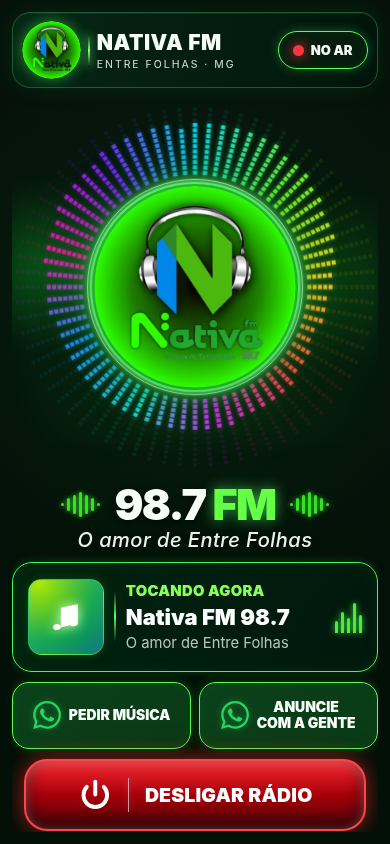
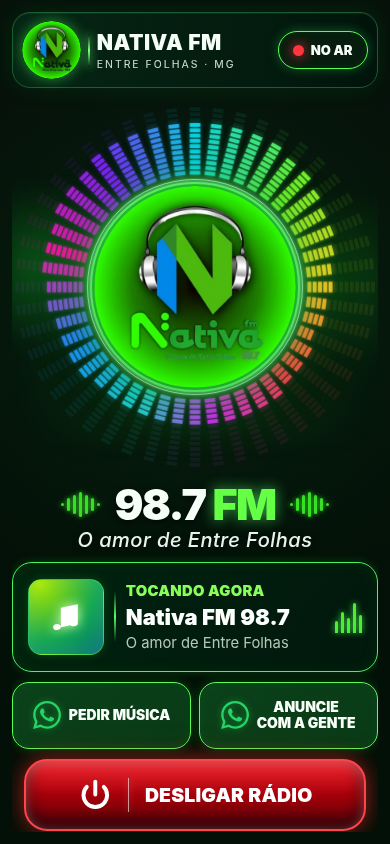
Add files via upload

Changed region(s): [[0.0923, 0.1232, 0.8615, 0.5237]]

diff --git a/app.js b/app.js
@@ -1,5 +1,5 @@
 'use strict';
-/* Nativa FM 1.7.0 — equalizador circular de frequência real com visual neon. */
+/* Nativa FM 1.7.1 — equalizador circular com barras largas, fiel à referência visual. */
 (() => {
   const cfg = window.NATIVA_CONFIG;
   if (!cfg) return;
@@ -49,7 +49,7 @@
     analyser: null,
     frequencyData: null,
     raf: 0,
-    levels: new Float32Array(72),
+    levels: new Float32Array(48),
     lastMeterFrame: 0,
     frequencyRanges: [],
     metadata: null,
@@ -58,7 +58,7 @@
     progressEvents: 0
   };
 
-  const BANDS = 72;
+  const BANDS = 48;
   const ATTACK_MS = 16;
   const RELEASE_MS = 110;
   const radialCtx = ui.equalizer.getContext('2d', {alpha: true});
@@ -108,7 +108,9 @@
     const radius = canvasSize * .307;
     const segmentLength = canvasSize * .0105;
     const segmentGap = canvasSize * .004;
-    const barWidth = Math.max(1.6, canvasSize * .0116);
+    // Proporções da referência aprovada: menos colunas e segmentos mais largos.
+    // Mantém espaçamento uniforme entre as barras, independentemente do tamanho da tela.
+    const barWidth = Math.max(1.6, canvasSize * .029);
     const segmentsPerBar = 13;
     radialCtx.clearRect(0, 0, canvasSize, canvasSize);
     for (let i = 0; i < BANDS; i++) {

diff --git a/server.js b/server.js
@@ -92,7 +92,7 @@ const server = http.createServer((req, res) => {
   let pathname;
   try { pathname = new URL(req.url, 'http://localhost').pathname; }
   catch (_) {return json(res, 400, {error:'URL inválida.'});}
-  if (pathname === '/api/health') return json(res, 200, {service:'nativa-fm-proxy', ready:true, version:'1.7.0'});
+  if (pathname === '/api/health') return json(res, 200, {service:'nativa-fm-proxy', ready:true, version:'1.7.1'});
   if (pathname === '/api/stream' && method === 'GET') return void proxyStream(res, STREAM, false);
   if (pathname === '/api/metadata' && method === 'GET') return void proxyStream(res, META, true);
   if (pathname.startsWith('/api/')) return json(res, 404, {error:'Rota não encontrada.'});

diff --git a/sw.js b/sw.js
@@ -1,5 +1,5 @@
-/* Nativa FM 1.7.0: cache apenas da interface; streaming e metadados nunca entram em cache. */
-const CACHE = 'nativa-fm-v1.7.0';
+/* Nativa FM 1.7.1: cache apenas da interface; streaming e metadados nunca entram em cache. */
+const CACHE = 'nativa-fm-v1.7.1';
 const FILES = [
   './', './index.html', './styles.css', './gate.js', './landing.js', './app.js', './config.js', './manifest.webmanifest',
   './assets/nativa-fm-original.png', './assets/whatsapp.svg',
